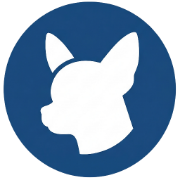
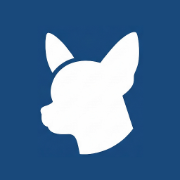
fix(movil): icono apple-touch, safe-area del menu y swipe en el visor (DSH-107)
Reemplaza el apple-touch-icon por la versión sin esquinas vacías.
Agrega viewport-fit=cover para que el safe-area inferior funcione en iOS
(el menú ya no queda pegado al borde) y overscroll-behavior para evitar
el rebote de la pantalla. Habilita pasar fotos con swipe en el visor
ampliado, además de las flechas.

Changed region(s): [[0.0, 0.0, 1.0, 1.0]]

diff --git a/frontend/src/components/rehab/AnimalDetail.tsx b/frontend/src/components/rehab/AnimalDetail.tsx
@@ -1,4 +1,4 @@
-import { useState } from 'react';
+import { useRef, useState } from 'react';
 import { AnimatePresence, motion } from 'motion/react';
 import { X, Heart, Gift, Stethoscope, MapPin, ChevronLeft, ChevronRight, Home } from 'lucide-react';
 import { ProgressBar } from '../ui/ProgressBar';
@@ -14,6 +14,7 @@ export function AnimalDetail({ animal, onClose }: AnimalDetailProps) {
   const total = animal.photos.length;
   const [activePhoto, setActivePhoto] = useState(total - 1);
   const [showFull, setShowFull] = useState(false);
+  const touchStartX = useRef(0);
   const photo = animal.photos[activePhoto];
 
   const goNext = () => setActivePhoto((index) => (index + 1) % total);
@@ -160,6 +161,15 @@ export function AnimalDetail({ animal, onClose }: AnimalDetailProps) {
               src={photo}
               alt={animal.name}
               onClick={(event) => event.stopPropagation()}
+              onTouchStart={(event) => {
+                touchStartX.current = event.changedTouches[0].clientX;
+              }}
+              onTouchEnd={(event) => {
+                if (total <= 1) return;
+                const deltaX = event.changedTouches[0].clientX - touchStartX.current;
+                if (deltaX > 50) goPrev();
+                else if (deltaX < -50) goNext();
+              }}
               className="max-h-full max-w-full rounded-xl object-contain"
             />
 

diff --git a/frontend/index.html b/frontend/index.html
@@ -7,7 +7,7 @@
     <link rel="icon" type="image/png" sizes="16x16" href="/favicon-16x16.png" />
     <link rel="apple-touch-icon" href="/apple-touch-icon.png" />
     <link rel="manifest" href="/manifest.webmanifest" />
-    <meta name="viewport" content="width=device-width, initial-scale=1.0" />
+    <meta name="viewport" content="width=device-width, initial-scale=1.0, viewport-fit=cover" />
     <meta name="theme-color" content="#1C4E80" />
     <meta
       name="description"

diff --git a/frontend/src/index.css b/frontend/src/index.css
@@ -19,4 +19,5 @@ body {
   background-color: var(--color-lino);
   color: #1a1a1a;
   -webkit-font-smoothing: antialiased;
+  overscroll-behavior-y: none;
 }
